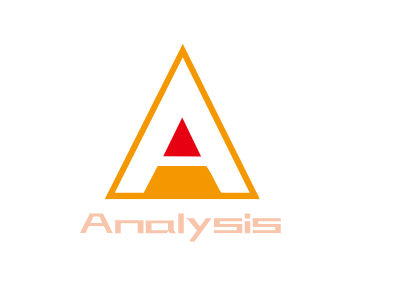
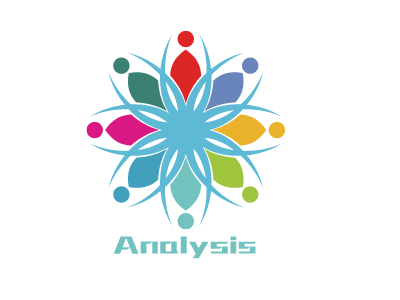
login

Changed region(s): [[0.18, 0.09, 0.72, 0.87]]

diff --git a/src/pages/login/index.tsx b/src/pages/login/index.tsx
@@ -1,9 +1,11 @@
-import React from 'react';
+import React, { Component, FormEvent } from 'react';
 import styles from './index.less';
 import { formatMessage } from 'umi-plugin-locale';
-import { Input, DatePicker, Select, Form, Button } from 'antd';
+import { Input, DatePicker, Select, Form, Button, message } from 'antd';
+import { FormComponentProps } from "antd/lib/form/Form";
 const Option = Select.Option;
 const FormItem = Form.Item;
+const FormCreate = Form.create();
 const formItemLayout = {
     labelCol: {
         xs: { span: 24 },
@@ -23,34 +25,73 @@ const tailFormItemLayout = {
         sm: {
             span: 16,
             offset: 8,
+
         },
     },
 };
-export default function Login() {
-    return (
-        <div className={styles.login}>
-            <div className={styles.loginform}>
-                <img className={styles.logo} src={require('../../assets/Analysisb.png')} />
-                <Form>
-                    <FormItem
-                        label={`Username`}
-                        {...formItemLayout}
-                    >
-                        <Input></Input>
-                    </FormItem>
-                    <FormItem
-                        label={`Password`}
-                        {...formItemLayout}
-                    >
-                        <Input type="password"></Input>
-                    </FormItem>
-                    <FormItem
-                        {...tailFormItemLayout}
-                    >
-                        <Button type="primary" block>Login</Button>
-                    </FormItem>
-                </Form>
-            </div>
-        </div>
-    );
+
+interface IFormComponentProps extends FormComponentProps {
+    // test: string;
 }
+
+class Login extends Component<IFormComponentProps> {
+
+    constructor(props: IFormComponentProps) {
+        super(props);
+    }
+
+    login = (e: FormEvent) => {
+        e.preventDefault();
+        const { validateFields } = this.props.form;
+        // console.log(getFieldsValue())
+        validateFields((err, value) => {
+            if (!err) {
+                if (value.username !== 'admin' && value.password !== '123') {
+                    message.error('用户名密码不正确！');
+                }
+            }
+        })
+    }
+
+    render() {
+        const { getFieldDecorator } = this.props.form;
+        return (
+            <div className={styles.login}>
+                <div className={styles.loginform}>
+                    <div className={styles.logoContainer}>
+                        <img className={styles.logo} src={require('../../assets/Analysis.png')} />
+                    </div>
+                    <Form onSubmit={this.login}>
+                        <FormItem
+                            label={`Username`}
+                            {...formItemLayout}
+                        >
+                            {getFieldDecorator('username', {
+                                rules: [{ required: true }]
+                            })(
+                                <Input />
+                            )}
+                        </FormItem>
+                        <FormItem
+                            label={`Password`}
+                            {...formItemLayout}
+                        >
+                            {getFieldDecorator('password', {
+                                rules: [{ required: true }]
+                            })(
+                                <Input type="password" />
+                            )}
+                        </FormItem>
+                        <FormItem
+                            {...tailFormItemLayout}
+                        >
+                            <Button type="primary" block={true} htmlType="submit">Log in</Button>
+                        </FormItem>
+                    </Form>
+                </div>
+            </div>
+        );
+    }
+}
+
+export default FormCreate(Login);

diff --git a/src/layouts/index.tsx b/src/layouts/index.tsx
@@ -10,7 +10,7 @@ import LoginLayout from './login/login';
 const BasicLayout: React.FC = props => {
   if (!localStorage.getItem('TOKEN')) {
     return (
-      <LoginLayout {...props}></LoginLayout>
+      <LoginLayout {...props} />
     )
   }
   return (

diff --git a/src/pages/login/index.less b/src/pages/login/index.less
@@ -9,6 +9,10 @@
   .loginform {
     align-self: center;
     width: 400px;
+  }
+
+  .logoContainer {
+    width: 100%;
     text-align: right;
   }
 
